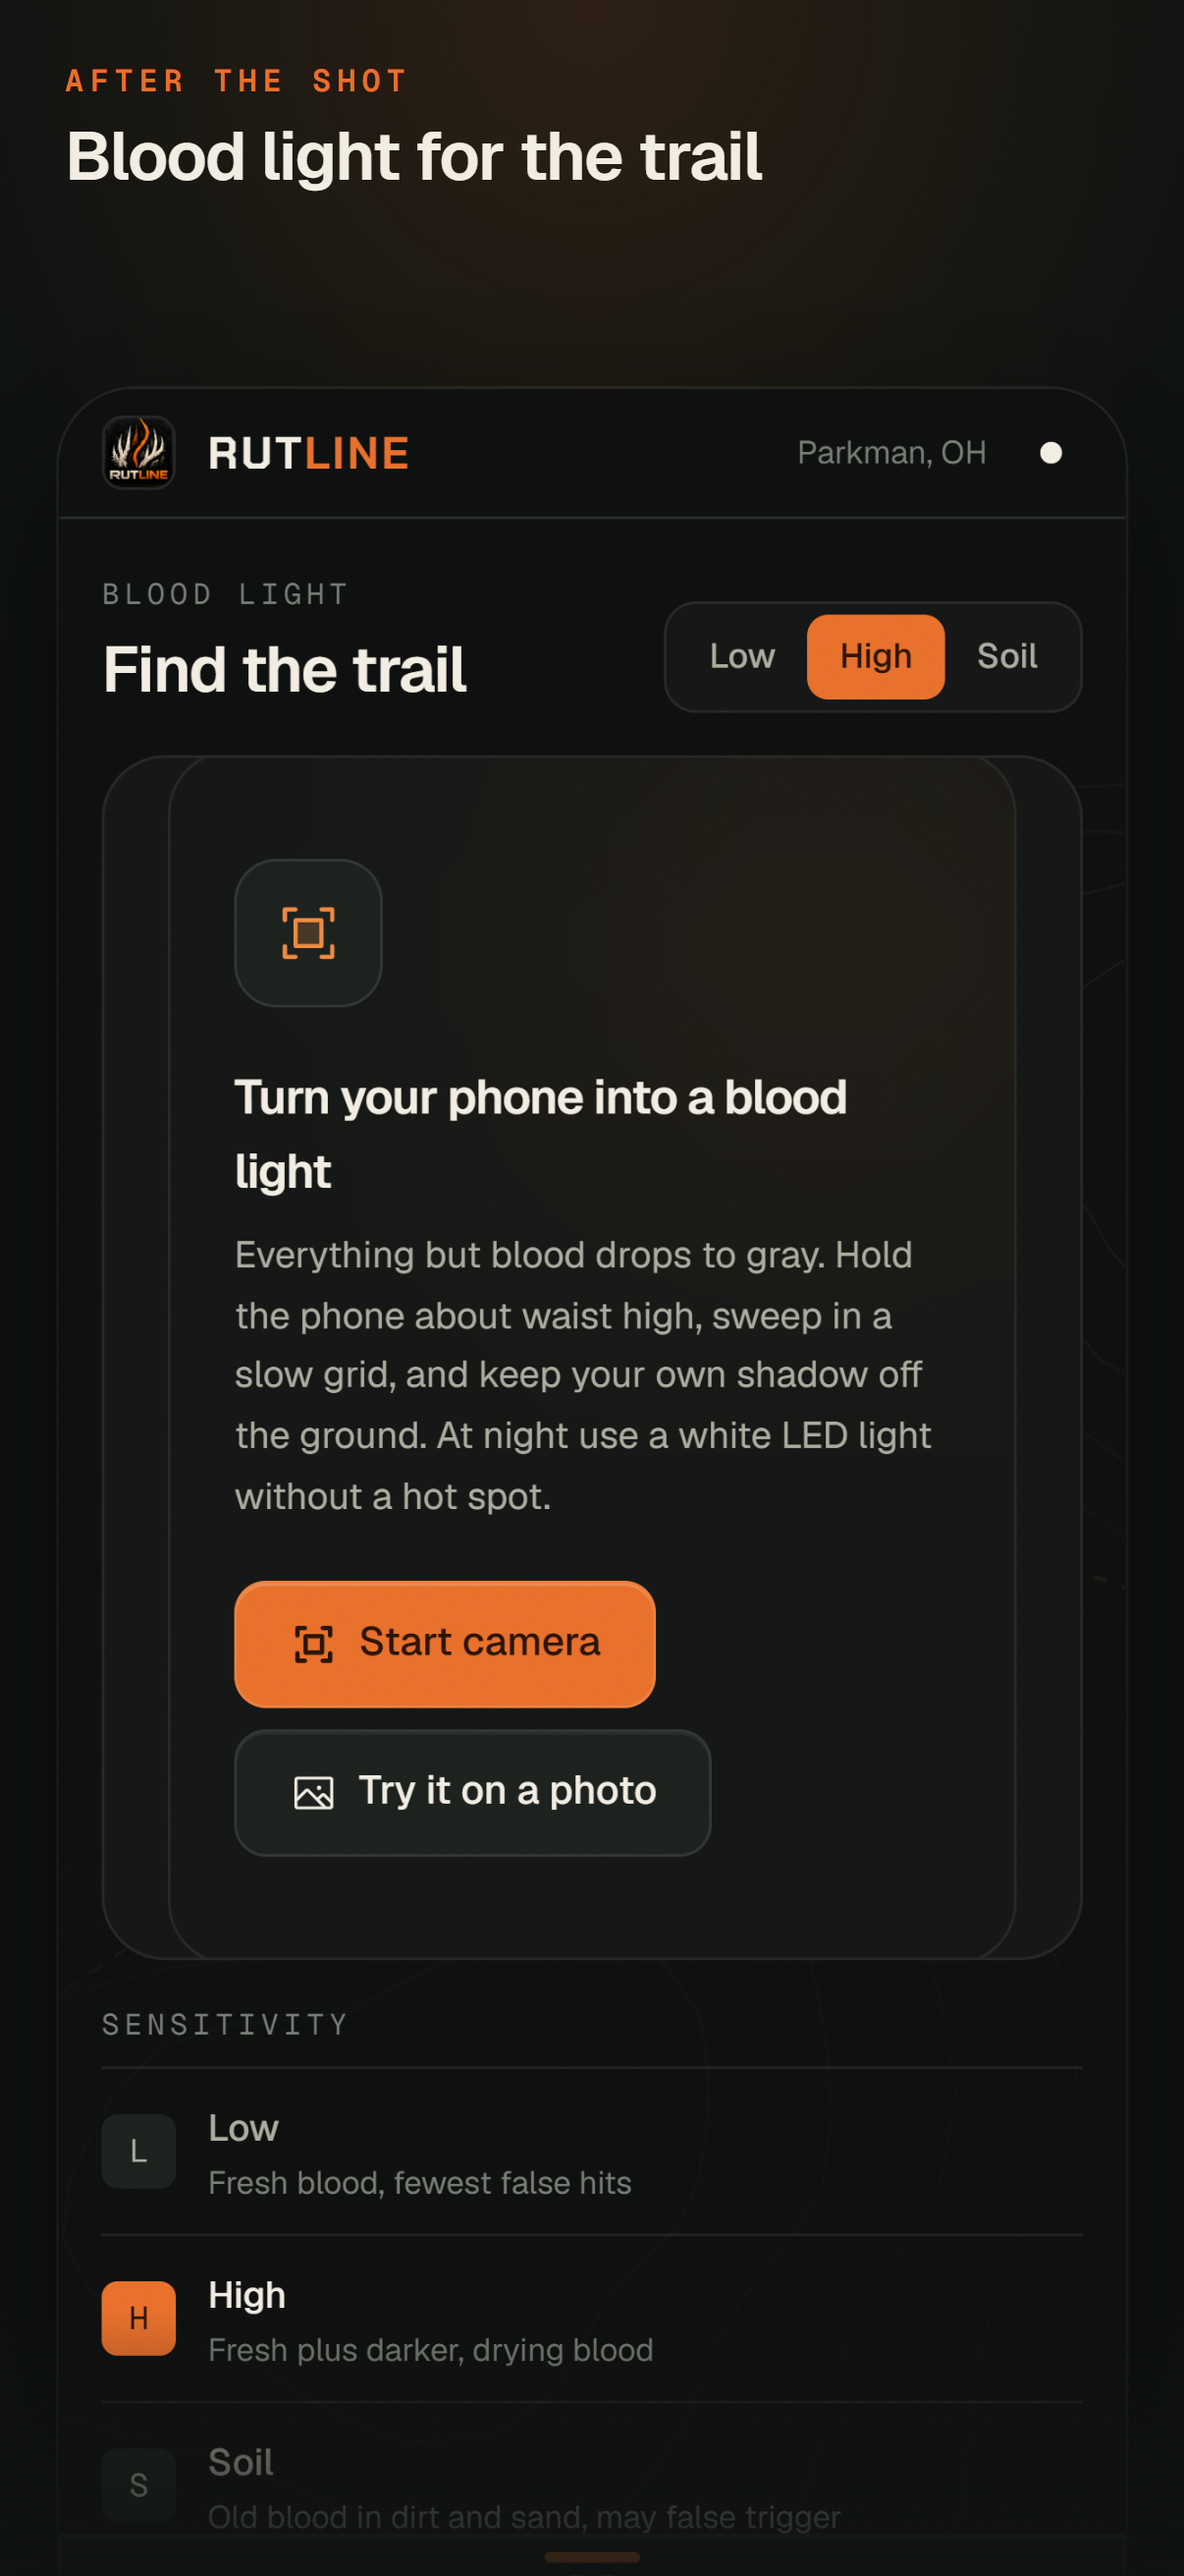
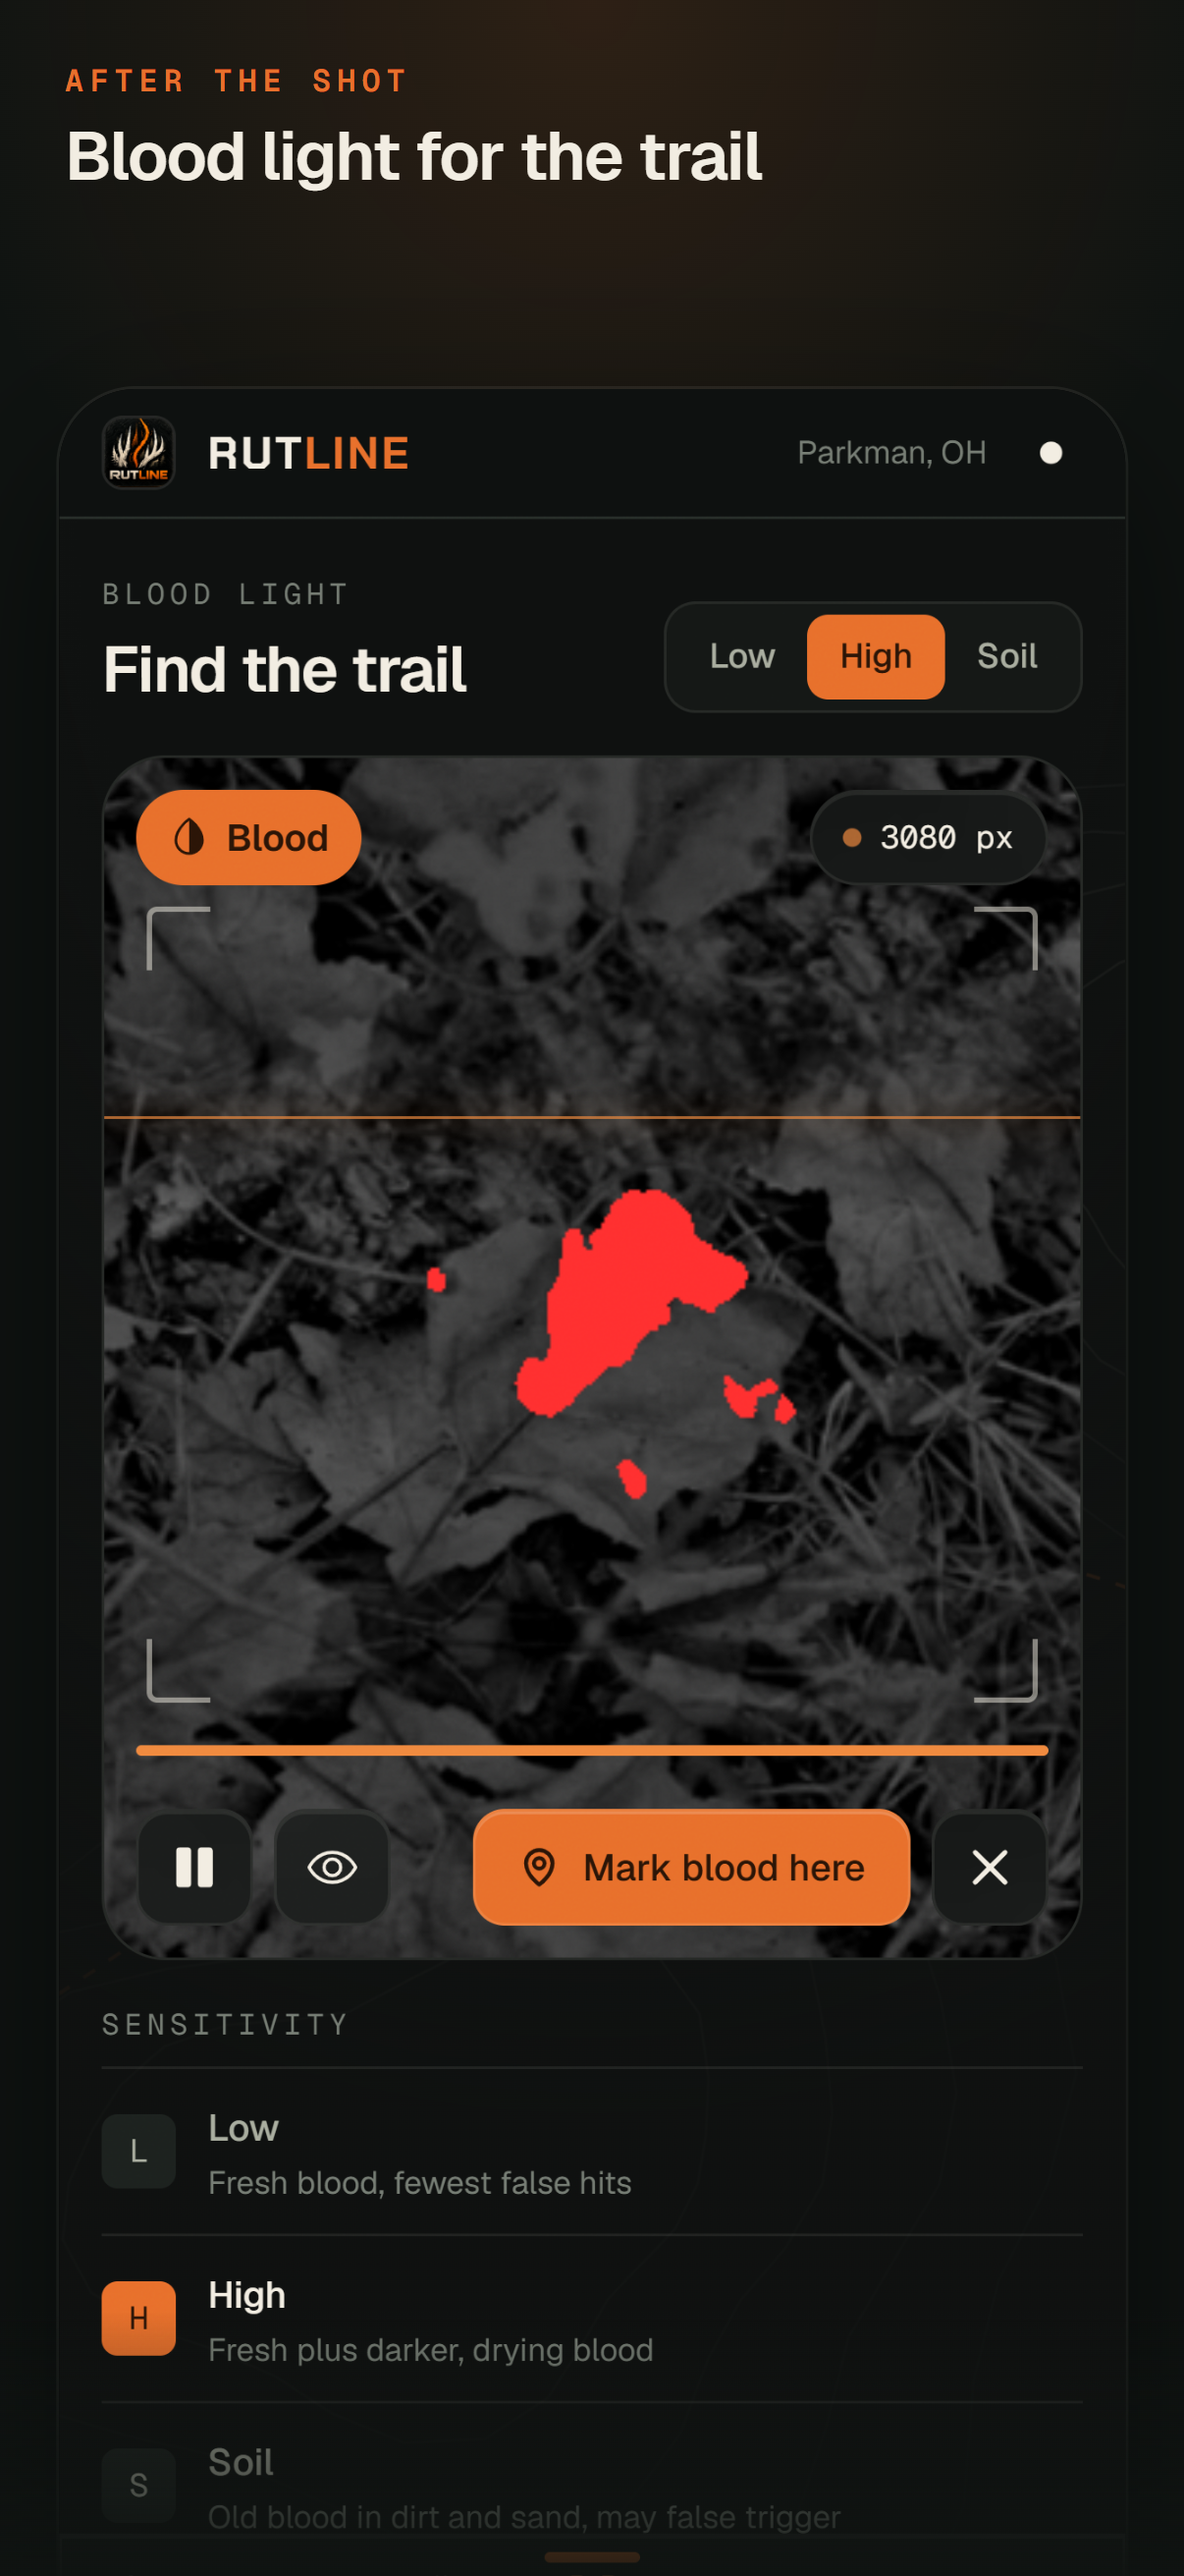
store: blood light screenshot with the camera running; fix the scan sweep
tools/blood-shot.mjs plays store/source/blood-trail.jpg through Chrome's fake
camera so the capture shows the tracker live: filtered frame, scanline,
brackets, Blood pill and pixel count. A landscape photo is extended to a
portrait camera frame with feathered gray copies. Writes the raw 6.3 capture
and store/creative/blood-light-1206x2622.png; store-frames gains --only=.

The .scanline keyframes translated a 1 px tall element by a percentage of its
own height, so the sweep never moved; it now animates top.

Changed region(s): [[0.0614, 0.278, 0.9204, 0.7723], [0.8284, 0.7105, 0.859, 0.7414]]

diff --git a/src/styles.css b/src/styles.css
@@ -128,8 +128,9 @@ body {
 .rut-line { stroke-dasharray: 6 7; animation: dash-flow 1.8s linear infinite; }
 
 /* Tracker scan sweep */
-@keyframes scan { from { transform: translateY(-2%); } to { transform: translateY(102%); } }
-.scanline { animation: scan 2.8s linear infinite; }
+/* top, not translateY: the line is 1 px tall, so a percentage translate never moved it */
+@keyframes scan { from { top: -1%; } to { top: 101%; } }
+.scanline { top: 0; animation: scan 2.8s linear infinite; }
 
 /* Pulsing dot (barometer now marker, map me marker) */
 @keyframes ring {

diff --git a/CLAUDE.md b/CLAUDE.md
@@ -71,6 +71,7 @@ npm run android:assets # Android launcher icons from resources/ (delete the spla
 node tools/play-shots.mjs      # Google Play screenshots 1080x1920 -> store/play/ (dev server running)
 node tools/feature-graphic.mjs # Play feature graphic 1024x500 + icon 512 -> store/play/
 node tools/store-shots.mjs   # raw App Store captures 1206x2622 -> store/screenshots/6.3/ (dev server running; --class=6.9 for 1320x2868)
+node tools/blood-shot.mjs    # blood light with the camera running: Chrome plays store/source/blood-trail.jpg as the camera -> store/screenshots/6.3/07-blood-light.png + store/creative/blood-light-1206x2622.png (then store-frames --only=blood-light)
 node tools/store-frames.mjs  # captioned set in App Store order -> store/screenshots/6.3-captioned/ (the set to upload; --class=6.9)
 node tools/store-art.mjs     # iOS 27 product-page headers 3840x1646 (header-rut = rut ribbon, the one to upload; header = land line) + search art 3840x2560 over the live map -> store/creative/
 node tools/store-art-buck.mjs  # brand-only alternates (buck + lockup) -> store/creative/*-lockup-*.jpg

diff --git a/store/listing.md b/store/listing.md
@@ -111,7 +111,7 @@ Rutline's first App Store release.
 them to every other iPhone) in their numbered order. The first three show in search results, so the map, the wind
 pitch and the landowner shot lead. If App Store Connect also offers a 6.9-inch slot, `store/screenshots/6.9-captioned/`
 is the same set at 1320 × 2868. Regenerate: `node tools/store-shots.mjs` (raw captures, dev server running) then
-`node tools/store-frames.mjs` (captions); add `--class=6.9` to both for the larger set.
+`node tools/store-frames.mjs` (captions); add `--class=6.9` to both for the larger set. The blood-light shot comes from `node tools/blood-shot.mjs` instead (Chrome plays `store/source/blood-trail.jpg` as the camera, so the light is running in the picture), then `node tools/store-frames.mjs --only=blood-light`.
 
 **Header** (Header tab): `store/creative/header-rut-3840x1646.png`, the 21:9 artwork at the top of the product page
 on iOS 27: "Know when to sit, not just where." with the rut ribbon (Pre-rut to 2nd rut, Chasing lit, today's
